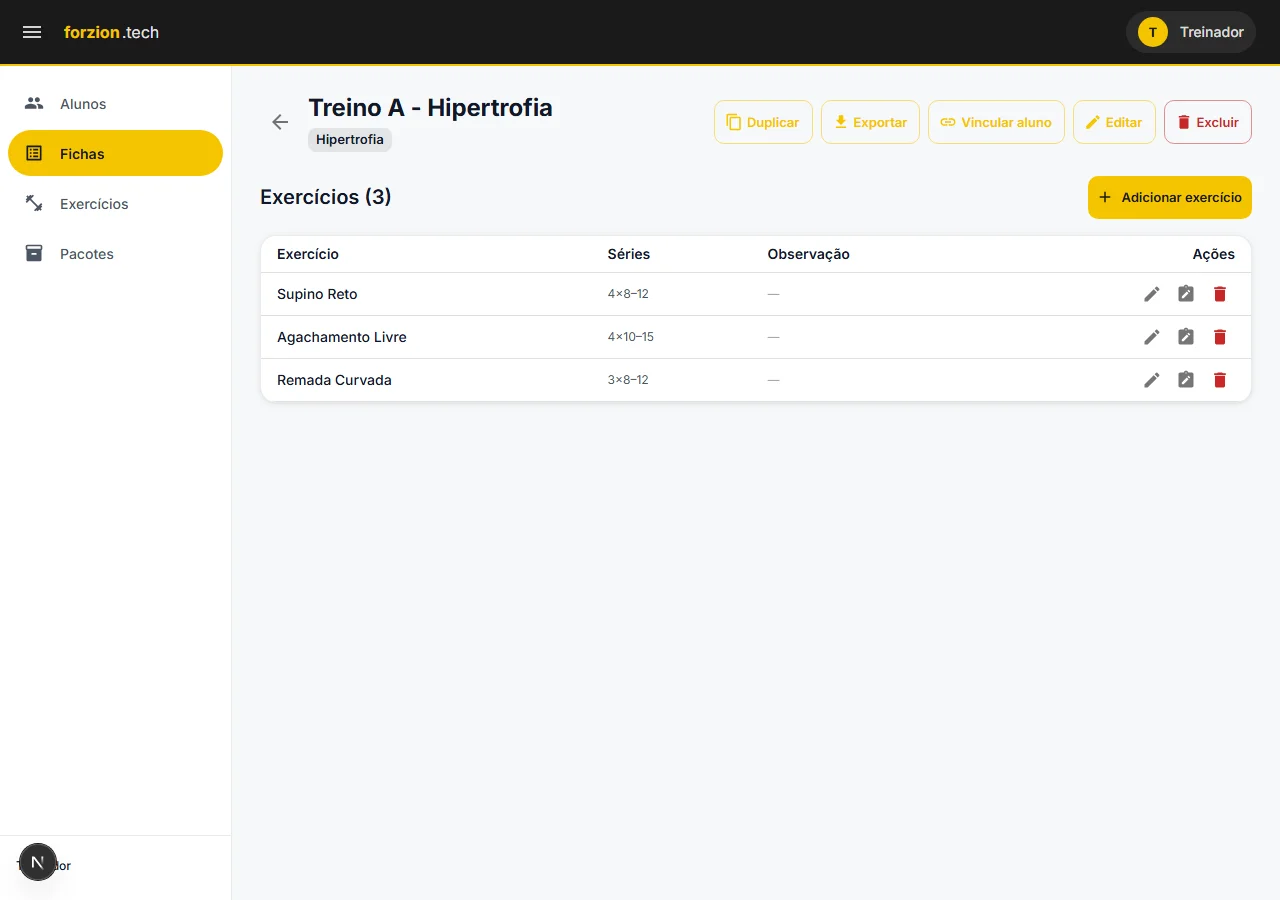
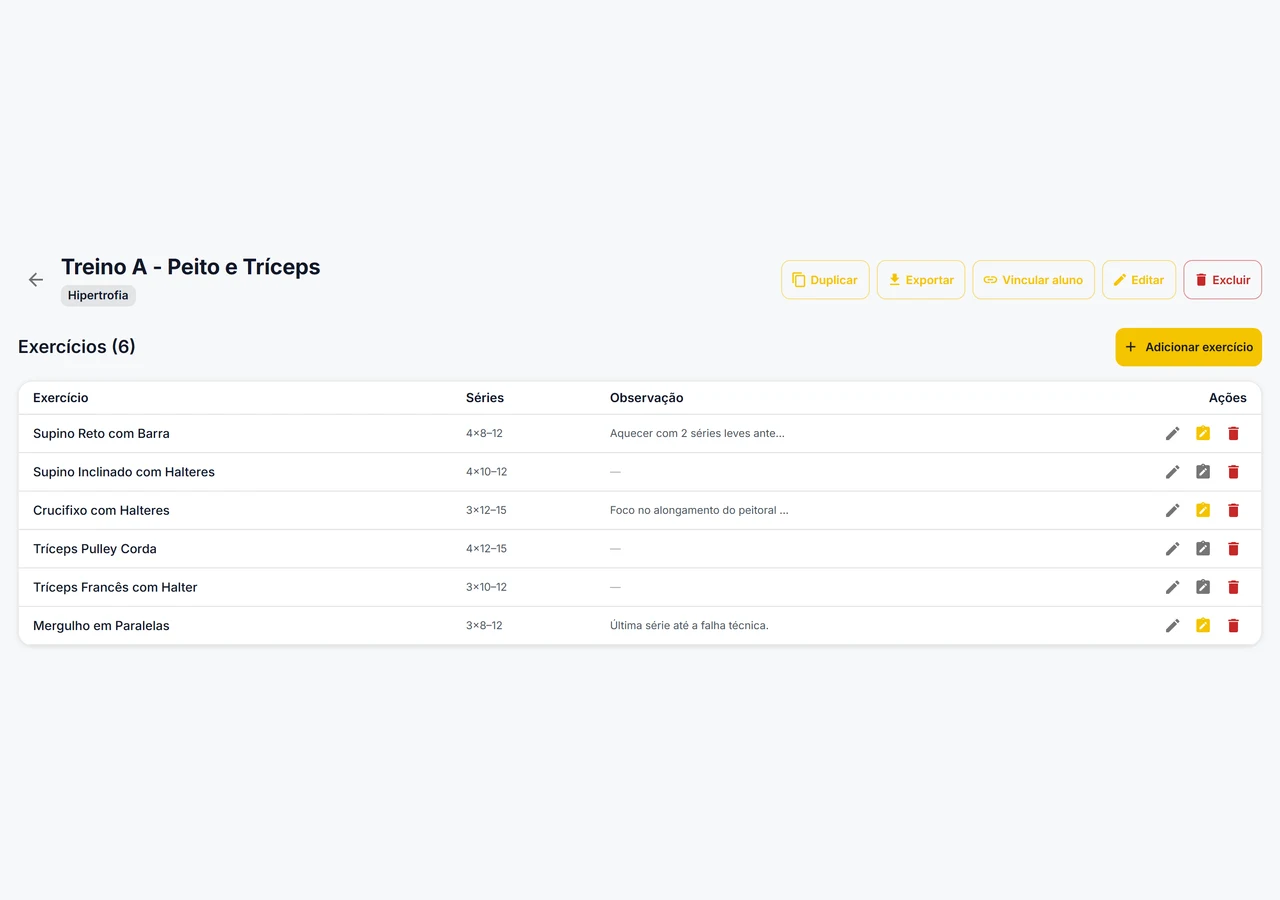
fix(frontend): middleware libera assets estáticos públicos e regenera screenshots da landing
O matcher do middleware não excluía arquivos com extensão em /public, então
/screenshots/*.webp eram redirecionados a /login (307) e o next/image
respondia 400. Exclui paths com extensão (`.*\..*`). Screenshots da landing
regeneradas via scripts/screenshots.mjs (foco no conteúdo, sem sidebar).

diff --git a/frontend/src/middleware.ts b/frontend/src/middleware.ts
@@ -71,5 +71,7 @@ export default async function middleware(request: NextRequest) {
 }
 
 export const config = {
-  matcher: ["/((?!_next/static|_next/image|favicon.ico|api/).*)"],
+  // `.*\..*` exclui assets estáticos do /public (ex: /screenshots/*.webp, robots.txt):
+  // sem isso o guard de auth redireciona o asset pra /login (307) e o next/image quebra (400).
+  matcher: ["/((?!_next/static|_next/image|favicon.ico|api/|.*\\..*).*)"],
 };